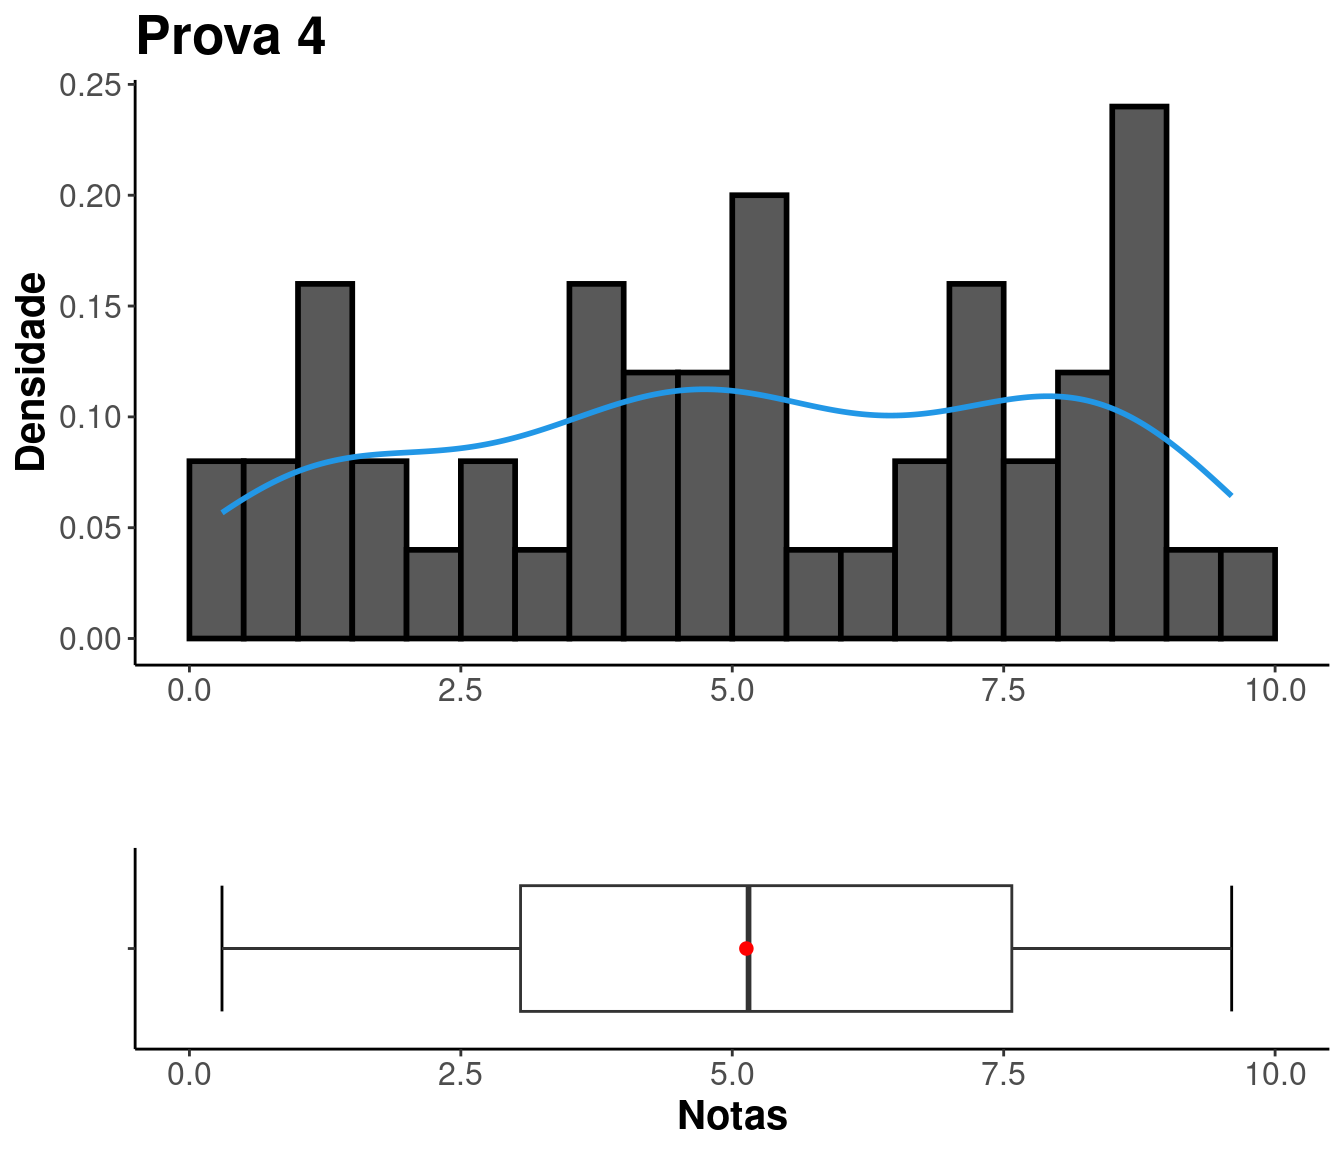
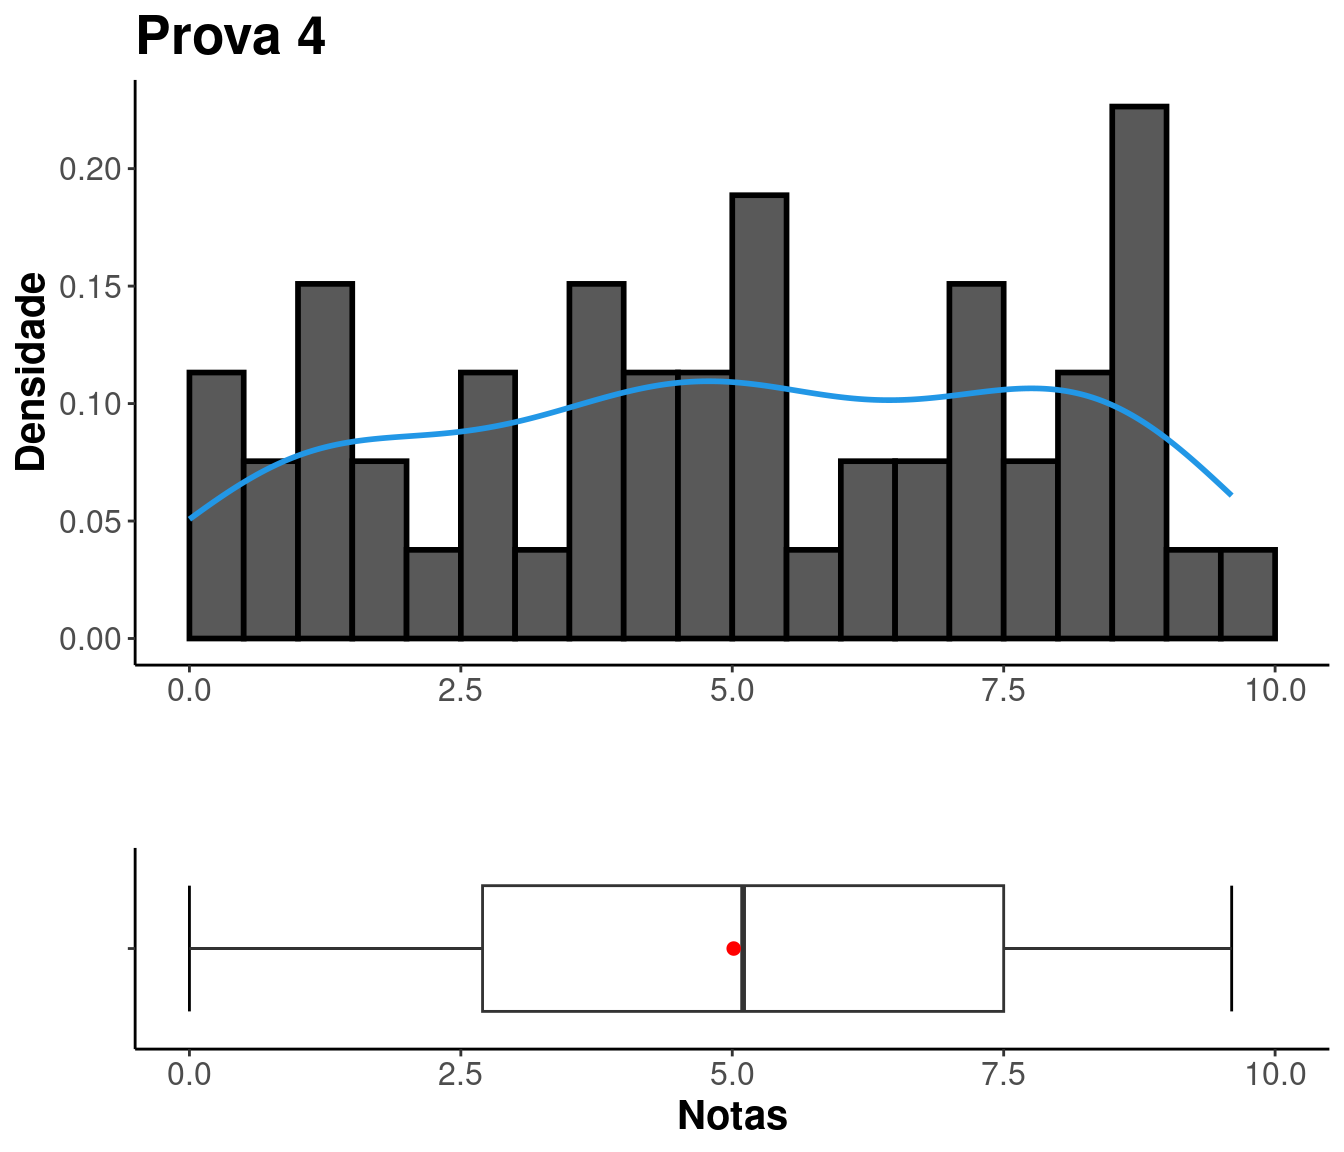
atualiza notas

diff --git a/notas.html b/notas.html
@@ -422,8 +422,8 @@ Prof. Dra. Silvia Emiko Shimakura</div></h3>
 <p>Busque sua situação digitando seu GRR na caixa “Search”.</p>
 <p><br />
 </p>
-<div class="datatables html-widget html-fill-item-overflow-hidden html-fill-item" id="htmlwidget-7ca705643021e4e98bbe" style="width:100%;height:auto;"></div>
-<script type="application/json" data-for="htmlwidget-7ca705643021e4e98bbe">{"x":{"filter":"none","vertical":false,"editable":{"target":"cell","disable":{"columns":null},"numeric":[1,2,3,4,5,6,7,8,9,10,11,12],"date":[]},"data":[["GRR20233873","GRR20240210","GRR20242448","GRR20241331","GRR20244190","GRR20241678","GRR20243150","GRR20240436","GRR20243413","GRR20242873","GRR20242352","GRR20244982","GRR20222245","GRR20244660","GRR20240331","GRR20243352","GRR20242856","GRR20244777","GRR20233892","GRR20233896","GRR20243557","GRR20241963","GRR20241650","GRR20242304","GRR20240528","GRR20243637","GRR20241140","GRR20243507","GRR20243418","GRR20241848","GRR20243242","GRR20244697","GRR20242858","GRR20207109","GRR20240551","GRR20242315","GRR20245109","GRR20243481","GRR20242921","GRR20233900","GRR20241882","GRR20233913","GRR20243709","GRR20241855","GRR20240644","GRR20241293","GRR20212996","GRR20244651","GRR20242530","GRR20233895","GRR20233908","GRR20244852","GRR20241403","GRR20233910","GRR20233917","GRR20233901","GRR20242112","GRR20240395","GRR20244636","GRR20222235","GRR20245017","GRR20243266","GRR20242635","GRR20240257","GRR20244892","GRR20240323","GRR20235505","GRR20233890","GRR20242758","GRR20242968","GRR20241608"],[98,56,2,10,88,38,6,16,0,2,10,98,42,10,20,66,12,90,12,12,22,34,16,12,10,4,0,2,10,6,2,12,16,24,14,56,8,70,14,12,10,42,0,90,94,28,58,2,2,16,8,46,10,18,28,66,20,10,0,94,12,8,38,34,2,16,14,14,12,6,8],[null,8,9.25,9.699999999999999,null,5.3,9,8.75,7.5,7.55,8.35,null,7.1,8.85,8.85,null,8.550000000000001,null,8.25,2.9,6.8,9.25,8.050000000000001,8.5,8.050000000000001,8.699999999999999,8.199999999999999,8.300000000000001,8,3.8,6.6,7.5,8.800000000000001,4.43,8.9,3.2,8.15,null,6.65,5.7,5.45,3.7,8.949999999999999,null,null,8.35,6.2,8.800000000000001,9.1,6.8,8.550000000000001,9.35,8.25,6.05,8.1,null,5.5,4.5,9.550000000000001,null,8.6,9.1,2.9,2.85,7.7,7.1,4.6,7.85,8.300000000000001,9.4,8.25],[null,7.8,9.6,8.5,null,5.8,7.5,7.2,7.5,4.7,9.4,null,4,8,7,null,2.8,null,7.2,2.35,5.85,6.6,9.5,8.199999999999999,4.9,8.199999999999999,9.5,8.5,3.8,3.5,5,7.45,7.4,4,7.5,null,8.1,null,7.4,4.95,6.85,6.2,5.9,null,null,8.9,5.1,9,8.5,5.1,7.25,7,7.7,5,5.9,null,4.4,4.9,9,null,9.1,7,4.45,3.5,4.7,6.3,4.8,8.9,7.5,9.199999999999999,8.199999999999999],[null,9.300000000000001,9.800000000000001,9.300000000000001,null,2.1,8.800000000000001,9.300000000000001,8.9,4,9.6,null,3,9.9,5.2,null,8.199999999999999,null,4.4,0.8,6.8,7.9,8.5,8.5,4.7,5.1,7.6,6.6,5.6,3.7,6.8,8.800000000000001,6.6,1.8,7.5,null,8.5,null,7.1,4.8,6.4,2.8,7.2,null,null,9.699999999999999,null,9.5,9.6,3.2,5.4,null,5.5,3.7,3.5,null,5.6,4.8,10,null,9.800000000000001,6,null,1.3,4,7.6,3.6,7.7,7.9,9.800000000000001,7.8],[null,null,8.6,7.1,null,1.2,2.6,3.7,4.1,2.3,5.2,null,null,8.9,5.7,null,3.8,null,3.8,0.3,3.6,7.1,7.6,5.3,8.300000000000001,5.3,9,5.3,1.1,1.2,4.5,4.3,4.9,null,6.1,null,8.800000000000001,null,7.2,1.2,7,null,8.199999999999999,null,null,9.6,null,9.1,7.5,0.7,1.8,null,4.9,1,3.2,null,null,0.5,8,null,8.6,4.8,null,null,6.7,3,1.7,8.9,5.1,8.1,null],[0,0,9.539999999999999,10,0,8.869999999999999,8.949999999999999,9.529999999999999,8.800000000000001,8.08,9.9,0,5.45,10,9.23,8.26,10,0,8.68,5.81,9.18,8.59,10,9.380000000000001,6.85,9.390000000000001,9.82,9.51,5.56,8.140000000000001,9.800000000000001,9.1,0,6.98,9.390000000000001,6.82,9.58,9.06,9.69,7.95,8.06,0,9.58,0,0,9.84,6.31,9.75,10,3.89,0,9.57,9.640000000000001,9.279999999999999,10,8.140000000000001,9.109999999999999,0,10,0,9.58,0,0,0,8,7.12,7.24,9.380000000000001,9.58,9.23,9.75],[0,0,9.789999999999999,9.75,0,5.42,9.789999999999999,9.59,8.25,5.79,9.789999999999999,0,3.81,9.789999999999999,7.42,0,8.33,0,9.539999999999999,4.34,9.44,9.539999999999999,9.48,8.630000000000001,7.52,8.65,9.75,9.130000000000001,8.289999999999999,8.08,9.6,9.44,9.17,5.94,9.75,5.75,9.75,0,8.23,9.48,9.289999999999999,9.380000000000001,9.44,0,0,9.75,7.42,9.789999999999999,9,7.9,8.23,7.71,8,6.66,9.48,0,9.06,4.36,9.44,0,9.75,9.789999999999999,0,7.56,8,6.23,8.039999999999999,9.58,9.5,8.98,9.75],[0,1.03,9.800000000000001,9.9,0,0,9.6,9.83,8.73,2.05,9.529999999999999,0,8.029999999999999,10,7.23,0,10,0,7.83,4.24,9,9.31,10,8.34,10,9.34,9.800000000000001,9.33,8.1,4.5,9.6,8.15,8.880000000000001,6.93,9.73,0,9.300000000000001,0,5.93,8.6,7.78,9.199999999999999,9.5,0,0,9.33,0,10,9.43,8.93,6.2,9.24,9.83,4.85,7.98,0,7.84,6.63,9.699999999999999,0,9.73,9.300000000000001,5.98,0,10,4.79,8.17,9.35,8.550000000000001,8.91,9.83],[0,8.91,10,9.1,0,0,9.67,9.800000000000001,7.02,1,8.869999999999999,0,0,9.800000000000001,6.32,0,9.6,0,5.73,0,8.9,6.77,9.6,9.06,9.07,7.16,9.800000000000001,8.609999999999999,7.86,3.19,9.6,7.61,6.99,0,8.73,0,8.51,0,9.01,9.52,8.859999999999999,9.4,9.300000000000001,0,0,7.01,0,10,9.470000000000001,5.42,8.81,0,7.81,8.75,9.800000000000001,0,9.17,2.15,9.859999999999999,0,9.6,9.4,0,2.05,7,6.52,8.09,9.16,8.619999999999999,9.710000000000001,8.359999999999999],[0,0,10,8,0,9.5,9.5,8.5,9,8.5,10,0,9,9.5,9,0,10,0,10,0,10,10,10,9,10,9,10,10,9,8.5,9.6,9.5,10,0,8.5,9,9.5,0,9,8,8,9,9.5,0,0,10,0,10,9.5,10,7,10,9.5,10,10,0,8,0,10,0,9.5,9.5,9,8,9.5,9,0,10,8,9,10],[0,9.5,9.5,10,0,9,9.5,9,10,0,10,0,0,10,9,0,9.5,0,10,0,9.5,10,9.5,10,10,9.5,10,10,10,10,10,10,10,0,0,0,10,0,0,9,9.5,0,9.5,0,0,9.5,0,10,10,10,10,0,9,10,0,0,9,0,9.5,0,9.5,10,10,9,9.5,10,10,9.5,9.5,10,9.5],[0,7.2,9.6,9.300000000000001,0,4.5,8.699999999999999,8.699999999999999,8.1,5,9.199999999999999,0,4.5,9.4,7.4,0.3,7.5,0,7.1,2.3,7.2,8.300000000000001,8.9,8.5,7.6,7.8,9.1,8.199999999999999,6.4,4.6,7,8.1,7.7,3.3,7.9,1.6,8.699999999999999,0.3,7.2,6,7.2,4.5,8.4,0,0,9.4,3.3,9.4,9.199999999999999,5.6,7,5.4,7.6,5.7,6.4,0.3,6.1,4.2,9.5,0,9.300000000000001,7.6,2.7,2.9,7,7,5,8.800000000000001,8.1,9.4,8.300000000000001],["REPROVADO","APROVADO","APROVADO","APROVADO","REPROVADO","EXAME","APROVADO","APROVADO","APROVADO","EXAME","APROVADO","REPROVADO","EXAME","APROVADO","APROVADO","REPROVADO","APROVADO","REPROVADO","APROVADO","REPROVADO","APROVADO","APROVADO","APROVADO","APROVADO","APROVADO","APROVADO","APROVADO","APROVADO","EXAME","EXAME","APROVADO","APROVADO","APROVADO","REPROVADO","APROVADO","REPROVADO","APROVADO","REPROVADO","APROVADO","EXAME","APROVADO","EXAME","APROVADO","REPROVADO","REPROVADO","APROVADO","REPROVADO","APROVADO","APROVADO","EXAME","APROVADO","EXAME","APROVADO","EXAME","EXAME","REPROVADO","EXAME","EXAME","APROVADO","REPROVADO","APROVADO","APROVADO","REPROVADO","REPROVADO","APROVADO","APROVADO","EXAME","APROVADO","APROVADO","APROVADO","APROVADO"]],"container":"<table class=\"cell-border stripe\">\n  <thead>\n    <tr>\n      <th>GRR<\/th>\n      <th>FALTAS<\/th>\n      <th>PROVA 1<\/th>\n      <th>PROVA 2<\/th>\n      <th>PROVA 3<\/th>\n      <th>PROVA 4<\/th>\n      <th>REMOTA 1<\/th>\n      <th>REMOTA 2<\/th>\n      <th>REMOTA 3<\/th>\n      <th>REMOTA 4<\/th>\n      <th>TRABALHO 1<\/th>\n      <th>TRABALHO 2<\/th>\n      <th>NOTAS PRÉ EXAME<\/th>\n      <th>SITUAÇÃO PRÉ EXAME<\/th>\n    <\/tr>\n  <\/thead>\n<\/table>","options":{"columnDefs":[{"className":"dt-right","targets":[1,2,3,4,5,6,7,8,9,10,11,12]}],"order":[],"autoWidth":false,"orderClasses":false}},"evals":[],"jsHooks":[]}</script>
+<div class="datatables html-widget html-fill-item-overflow-hidden html-fill-item" id="htmlwidget-715f70905cf11ecd9454" style="width:100%;height:auto;"></div>
+<script type="application/json" data-for="htmlwidget-715f70905cf11ecd9454">{"x":{"filter":"none","vertical":false,"editable":{"target":"cell","disable":{"columns":null},"numeric":[1,2,3,4,5,6,7,8,9,10,11,12],"date":[]},"data":[["GRR20233873","GRR20240210","GRR20242448","GRR20241331","GRR20244190","GRR20241678","GRR20243150","GRR20240436","GRR20243413","GRR20242873","GRR20242352","GRR20244982","GRR20222245","GRR20244660","GRR20240331","GRR20243352","GRR20242856","GRR20244777","GRR20233892","GRR20233896","GRR20243557","GRR20241963","GRR20241650","GRR20242304","GRR20240528","GRR20243637","GRR20241140","GRR20243507","GRR20243418","GRR20241848","GRR20243242","GRR20244697","GRR20242858","GRR20207109","GRR20240551","GRR20242315","GRR20245109","GRR20243481","GRR20242921","GRR20233900","GRR20241882","GRR20233913","GRR20243709","GRR20241855","GRR20240644","GRR20241293","GRR20212996","GRR20244651","GRR20242530","GRR20233895","GRR20233908","GRR20244852","GRR20241403","GRR20233910","GRR20233917","GRR20233901","GRR20242112","GRR20240395","GRR20244636","GRR20222235","GRR20245017","GRR20243266","GRR20242635","GRR20240257","GRR20244892","GRR20240323","GRR20235505","GRR20233890","GRR20242758","GRR20242968","GRR20241608"],[98,56,2,10,88,38,6,16,0,2,10,98,42,10,20,66,12,90,12,12,22,34,16,12,10,4,0,2,10,6,2,12,16,24,14,56,8,70,14,12,10,42,0,90,94,28,58,2,2,16,8,46,10,18,28,66,20,10,0,94,12,8,38,34,2,16,14,14,12,6,8],[null,8,9.25,9.699999999999999,null,5.3,9,8.75,7.5,7.55,8.35,null,7.1,8.85,8.85,null,8.550000000000001,null,8.25,2.9,6.8,9.25,8.050000000000001,8.5,8.050000000000001,8.699999999999999,8.199999999999999,8.300000000000001,8,3.8,6.6,7.5,8.800000000000001,4.43,8.9,3.2,8.15,null,6.65,5.7,5.45,3.7,8.949999999999999,null,null,8.35,6.2,8.800000000000001,9.1,6.8,8.550000000000001,9.35,8.25,6.05,8.1,null,5.5,4.5,9.550000000000001,null,8.6,9.1,2.9,2.85,7.7,7.1,4.6,7.85,8.300000000000001,9.4,8.25],[null,7.8,9.6,8.5,null,5.8,7.5,7.2,7.5,4.7,9.4,null,4,8,7,null,2.8,null,7.2,2.35,5.85,6.6,9.5,8.199999999999999,4.9,8.199999999999999,9.5,8.5,3.8,3.5,5,7.45,7.4,4,7.5,null,8.1,null,7.4,4.95,6.85,6.2,5.9,null,null,8.9,5.1,9,8.5,5.1,7.25,7,7.7,5,5.9,null,4.4,4.9,9,null,9.1,7,4.45,3.5,4.7,6.3,4.8,8.9,7.5,9.199999999999999,8.199999999999999],[null,9.300000000000001,9.800000000000001,9.300000000000001,null,2.1,8.800000000000001,9.300000000000001,8.9,4,9.6,null,3,9.9,5.2,null,8.199999999999999,null,4.4,0.8,6.8,7.9,8.5,8.5,4.7,5.1,7.6,6.6,5.6,3.7,6.8,8.800000000000001,6.6,1.8,7.5,null,8.5,null,7.1,4.8,6.4,2.8,7.2,null,null,9.699999999999999,null,9.5,9.6,3.2,5.4,null,5.5,3.7,3.5,null,5.6,4.8,10,null,9.800000000000001,6,null,1.3,4,7.6,3.6,7.7,7.9,9.800000000000001,7.8],[null,6.5,8.6,7.1,null,1.2,2.6,3.7,4.1,2.3,5.2,null,2.7,8.9,5.7,null,3.8,null,3.8,0.3,3.6,7.1,7.6,5.3,8.300000000000001,5.3,9,5.3,1.1,1.2,4.5,4.3,4.9,null,6.1,null,8.800000000000001,null,7.2,1.2,7,null,8.199999999999999,null,null,9.6,null,9.1,7.5,0.7,1.8,null,4.9,1,3.2,null,0,0.5,8,null,8.6,4.8,null,null,6.7,3,1.7,8.9,5.1,8.1,null],[0,0,9.539999999999999,10,0,8.869999999999999,8.949999999999999,9.529999999999999,8.800000000000001,8.08,9.9,0,5.45,10,9.23,8.26,10,0,8.68,5.81,9.18,8.59,10,9.380000000000001,6.85,9.390000000000001,9.82,9.51,5.56,8.140000000000001,9.800000000000001,9.1,0,6.98,9.390000000000001,6.82,9.58,9.06,9.69,7.95,8.06,0,9.58,0,0,9.84,6.31,9.75,10,3.89,0,9.57,9.640000000000001,9.279999999999999,10,8.140000000000001,9.109999999999999,0,10,0,9.58,0,0,0,8,7.12,7.24,9.380000000000001,9.58,9.23,9.75],[0,0,9.789999999999999,9.75,0,5.42,9.789999999999999,9.59,8.25,5.79,9.789999999999999,0,3.81,9.789999999999999,7.42,0,8.33,0,9.539999999999999,4.34,9.44,9.539999999999999,9.48,8.630000000000001,7.52,8.65,9.75,9.130000000000001,8.289999999999999,8.08,9.6,9.44,9.17,5.94,9.75,5.75,9.75,0,8.23,9.48,9.289999999999999,9.380000000000001,9.44,0,0,9.75,7.42,9.789999999999999,9,7.9,8.23,7.71,8,6.66,9.48,0,9.06,4.36,9.44,0,9.75,9.789999999999999,0,7.56,8,6.23,8.039999999999999,9.58,9.5,8.98,9.75],[0,1.03,9.800000000000001,9.9,0,0,9.6,9.83,8.73,2.05,9.529999999999999,0,8.029999999999999,10,7.23,0,10,0,7.83,4.24,9,9.31,10,8.34,10,9.34,9.800000000000001,9.33,8.1,4.5,9.6,8.15,8.880000000000001,6.93,9.73,0,9.300000000000001,0,5.93,8.6,7.78,9.199999999999999,9.5,0,0,9.33,0,10,9.43,8.93,6.2,9.24,9.83,4.85,7.98,0,7.84,6.63,9.699999999999999,0,9.73,9.300000000000001,5.98,0,10,4.79,8.17,9.35,8.550000000000001,8.91,9.83],[0,8.91,10,9.1,0,0,9.67,9.800000000000001,7.02,1,8.869999999999999,0,0,9.800000000000001,6.32,0,9.6,0,5.73,0,8.9,6.77,9.6,9.06,9.07,7.16,9.800000000000001,8.609999999999999,7.86,3.19,9.6,7.61,6.99,0,8.73,0,8.51,0,9.01,9.52,8.859999999999999,9.4,9.300000000000001,0,0,7.01,0,10,9.470000000000001,5.42,8.81,0,7.81,8.75,9.800000000000001,0,9.17,2.15,9.859999999999999,0,9.6,9.4,0,2.05,7,6.52,8.09,9.16,8.619999999999999,9.710000000000001,8.359999999999999],[0,0,10,8,0,9.5,9.5,8.5,9,8.5,10,0,9,9.5,9,0,10,0,10,0,10,10,10,9,10,9,10,10,9,8.5,9.6,9.5,10,0,8.5,9,9.5,0,9,8,8,9,9.5,0,0,10,0,10,9.5,10,7,10,9.5,10,10,0,8,0,10,0,9.5,9.5,9,8,9.5,9,0,10,8,9,10],[0,9.5,9.5,10,0,9,9.5,9,10,0,10,0,0,10,9,0,9.5,0,10,0,9.5,10,9.5,10,10,9.5,10,10,10,10,10,10,10,0,0,0,10,0,0,9,9.5,0,9.5,0,0,9.5,0,10,10,10,10,0,9,10,0,0,9,0,9.5,0,9.5,10,10,9,9.5,10,10,9.5,9.5,10,9.5],[0,7.9,9.6,9.300000000000001,0,4.5,8.699999999999999,8.699999999999999,8.1,5,9.199999999999999,0,4.5,9.4,7.4,0.3,7.5,0,7.1,2.3,7.2,8.300000000000001,8.9,8.5,7.6,7.8,9.1,8.199999999999999,6.4,4.6,7,8.1,7.7,3.3,7.9,1.6,8.699999999999999,0.3,7.2,6,7.2,4.5,8.4,0,0,9.4,3.3,9.4,9.199999999999999,5.6,7,5.4,7.6,5.7,6.4,0.3,6.1,4.2,9.5,0,9.300000000000001,7.6,2.7,2.9,7,7,5,8.800000000000001,8.1,9.4,8.300000000000001],["REPROVADO","APROVADO","APROVADO","APROVADO","REPROVADO","EXAME","APROVADO","APROVADO","APROVADO","EXAME","APROVADO","REPROVADO","EXAME","APROVADO","APROVADO","REPROVADO","APROVADO","REPROVADO","APROVADO","REPROVADO","APROVADO","APROVADO","APROVADO","APROVADO","APROVADO","APROVADO","APROVADO","APROVADO","EXAME","EXAME","APROVADO","APROVADO","APROVADO","REPROVADO","APROVADO","REPROVADO","APROVADO","REPROVADO","APROVADO","EXAME","APROVADO","EXAME","APROVADO","REPROVADO","REPROVADO","APROVADO","REPROVADO","APROVADO","APROVADO","EXAME","APROVADO","EXAME","APROVADO","EXAME","EXAME","REPROVADO","EXAME","EXAME","APROVADO","REPROVADO","APROVADO","APROVADO","REPROVADO","REPROVADO","APROVADO","APROVADO","EXAME","APROVADO","APROVADO","APROVADO","APROVADO"]],"container":"<table class=\"cell-border stripe\">\n  <thead>\n    <tr>\n      <th>GRR<\/th>\n      <th>FALTAS<\/th>\n      <th>PROVA 1<\/th>\n      <th>PROVA 2<\/th>\n      <th>PROVA 3<\/th>\n      <th>PROVA 4<\/th>\n      <th>REMOTA 1<\/th>\n      <th>REMOTA 2<\/th>\n      <th>REMOTA 3<\/th>\n      <th>REMOTA 4<\/th>\n      <th>TRABALHO 1<\/th>\n      <th>TRABALHO 2<\/th>\n      <th>NOTAS PRÉ EXAME<\/th>\n      <th>SITUAÇÃO PRÉ EXAME<\/th>\n    <\/tr>\n  <\/thead>\n<\/table>","options":{"columnDefs":[{"className":"dt-right","targets":[1,2,3,4,5,6,7,8,9,10,11,12]}],"order":[],"autoWidth":false,"orderClasses":false}},"evals":[],"jsHooks":[]}</script>
 <center>
 <table style="width:71%;">
 <colgroup>
@@ -673,14 +673,14 @@ class="section level1 tabset tabset-fade tabset-pills">
 <div id="prova-4" class="section level2">
 <h2>PROVA 4</h2>
 <center>
-<table style="width:78%;">
+<table style="width:74%;">
 <colgroup>
 <col width="6%" />
 <col width="12%" />
-<col width="9%" />
+<col width="8%" />
 <col width="11%" />
 <col width="13%" />
-<col width="11%" />
+<col width="8%" />
 <col width="12%" />
 </colgroup>
 <thead>
@@ -696,12 +696,12 @@ class="section level1 tabset tabset-fade tabset-pills">
 </thead>
 <tbody>
 <tr class="odd">
-<td align="center">50</td>
-<td align="center">0.3</td>
-<td align="center">3.05</td>
-<td align="center">5.13</td>
-<td align="center">5.15</td>
-<td align="center">7.575</td>
+<td align="center">53</td>
+<td align="center">0</td>
+<td align="center">2.7</td>
+<td align="center">5.013</td>
+<td align="center">5.1</td>
+<td align="center">7.5</td>
 <td align="center">9.6</td>
 </tr>
 </tbody>
@@ -721,9 +721,9 @@ class="section level1 tabset tabset-fade tabset-pills">
 </thead>
 <tbody>
 <tr class="odd">
-<td align="center">9.3</td>
-<td align="center">7.84</td>
-<td align="center">2.8</td>
+<td align="center">9.6</td>
+<td align="center">8.029</td>
+<td align="center">2.834</td>
 </tr>
 </tbody>
 </table>
@@ -1126,7 +1126,7 @@ class="section level1 tabset tabset-fade tabset-pills">
 <td align="center">71</td>
 <td align="center">0</td>
 <td align="center">2.5</td>
-<td align="center">5.515</td>
+<td align="center">5.525</td>
 <td align="center">7.2</td>
 <td align="center">8.35</td>
 <td align="center">9.6</td>
@@ -1149,8 +1149,8 @@ class="section level1 tabset tabset-fade tabset-pills">
 <tbody>
 <tr class="odd">
 <td align="center">9.6</td>
-<td align="center">11.37</td>
-<td align="center">3.371</td>
+<td align="center">11.41</td>
+<td align="center">3.377</td>
 </tr>
 </tbody>
 </table>
